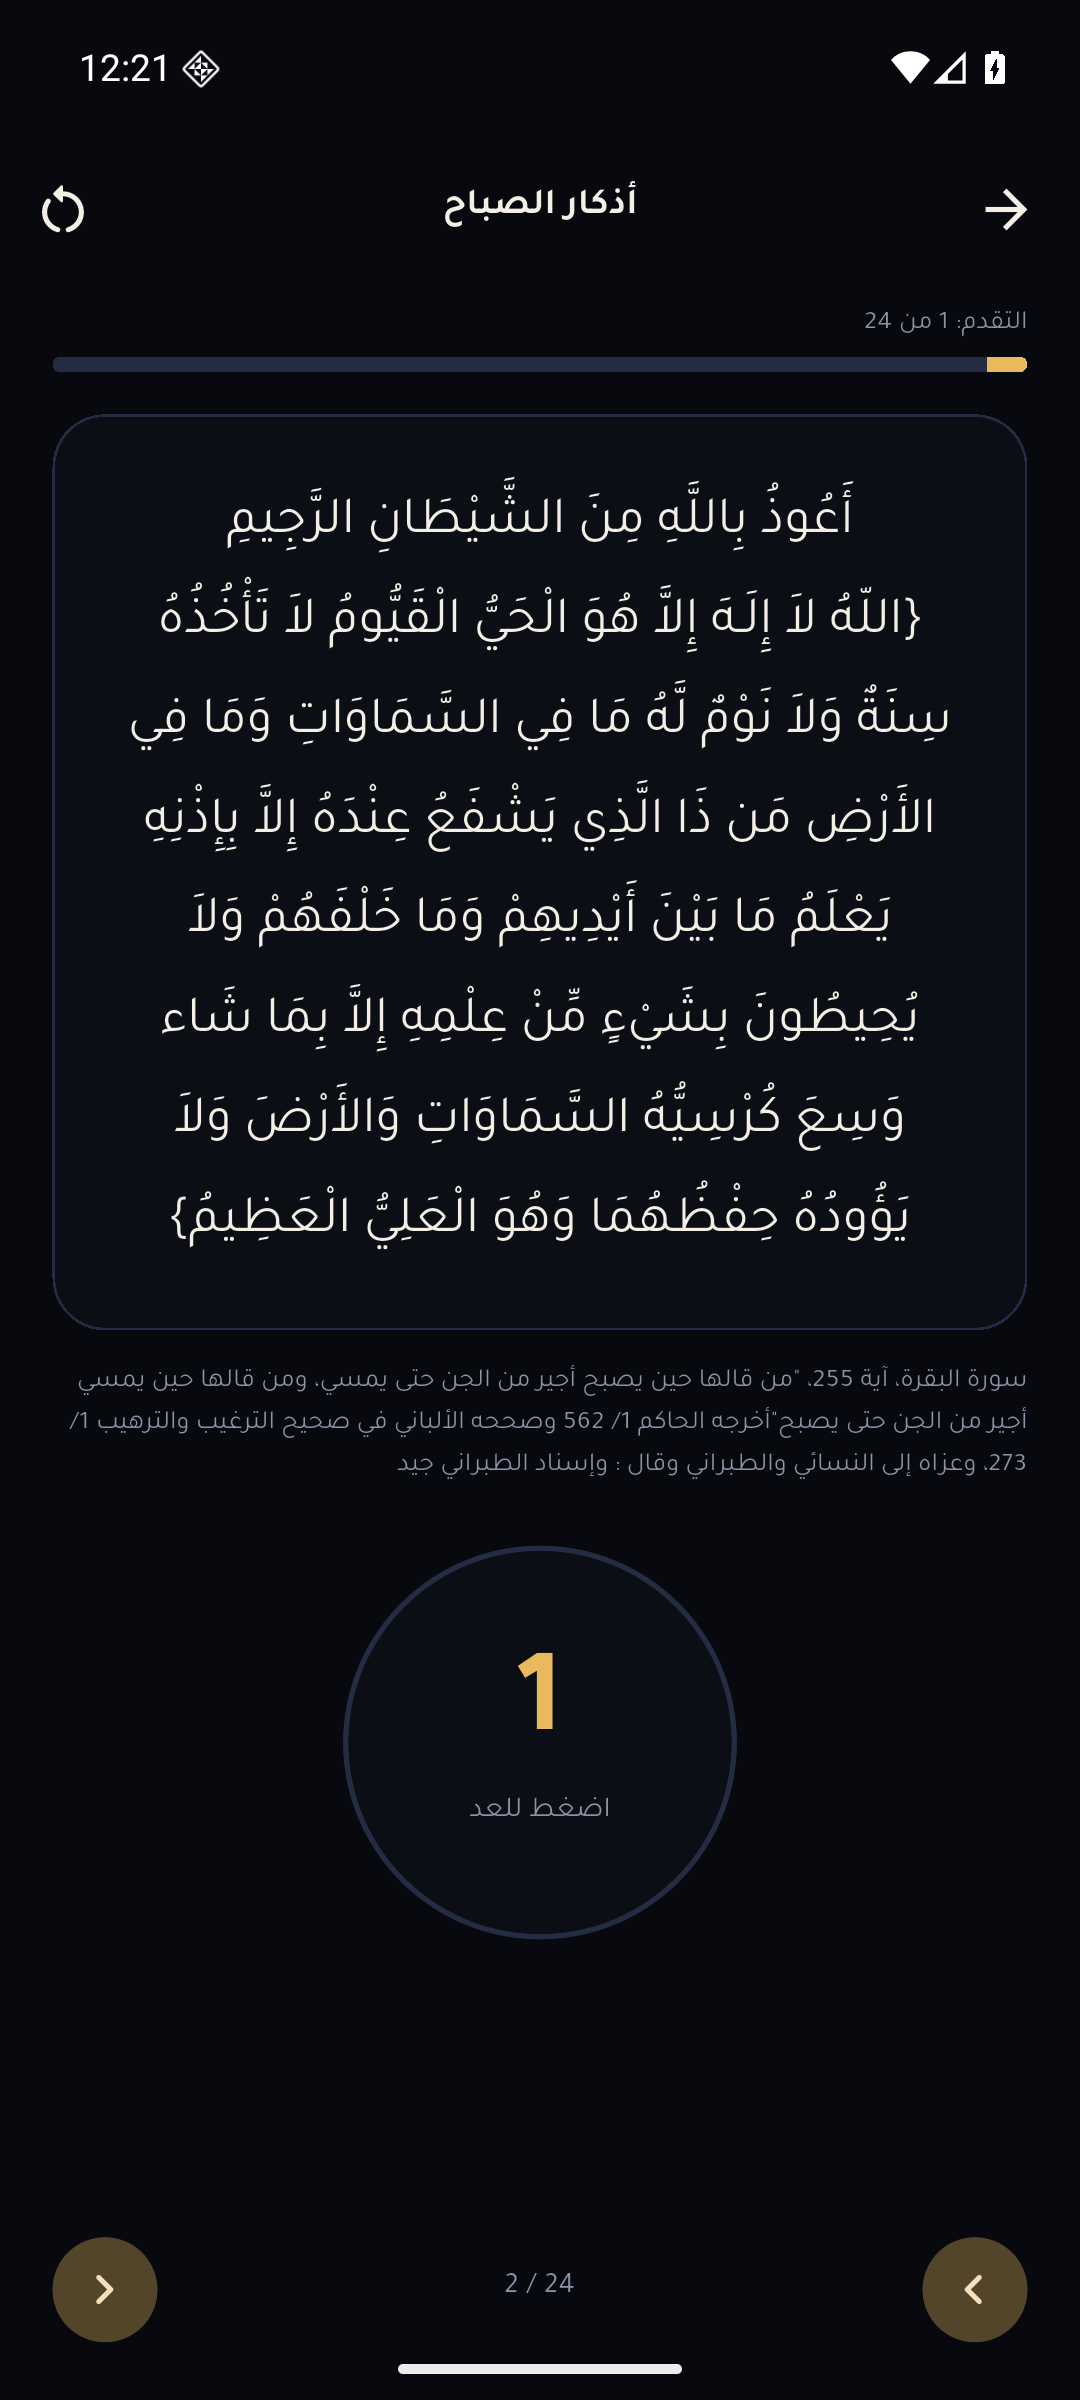
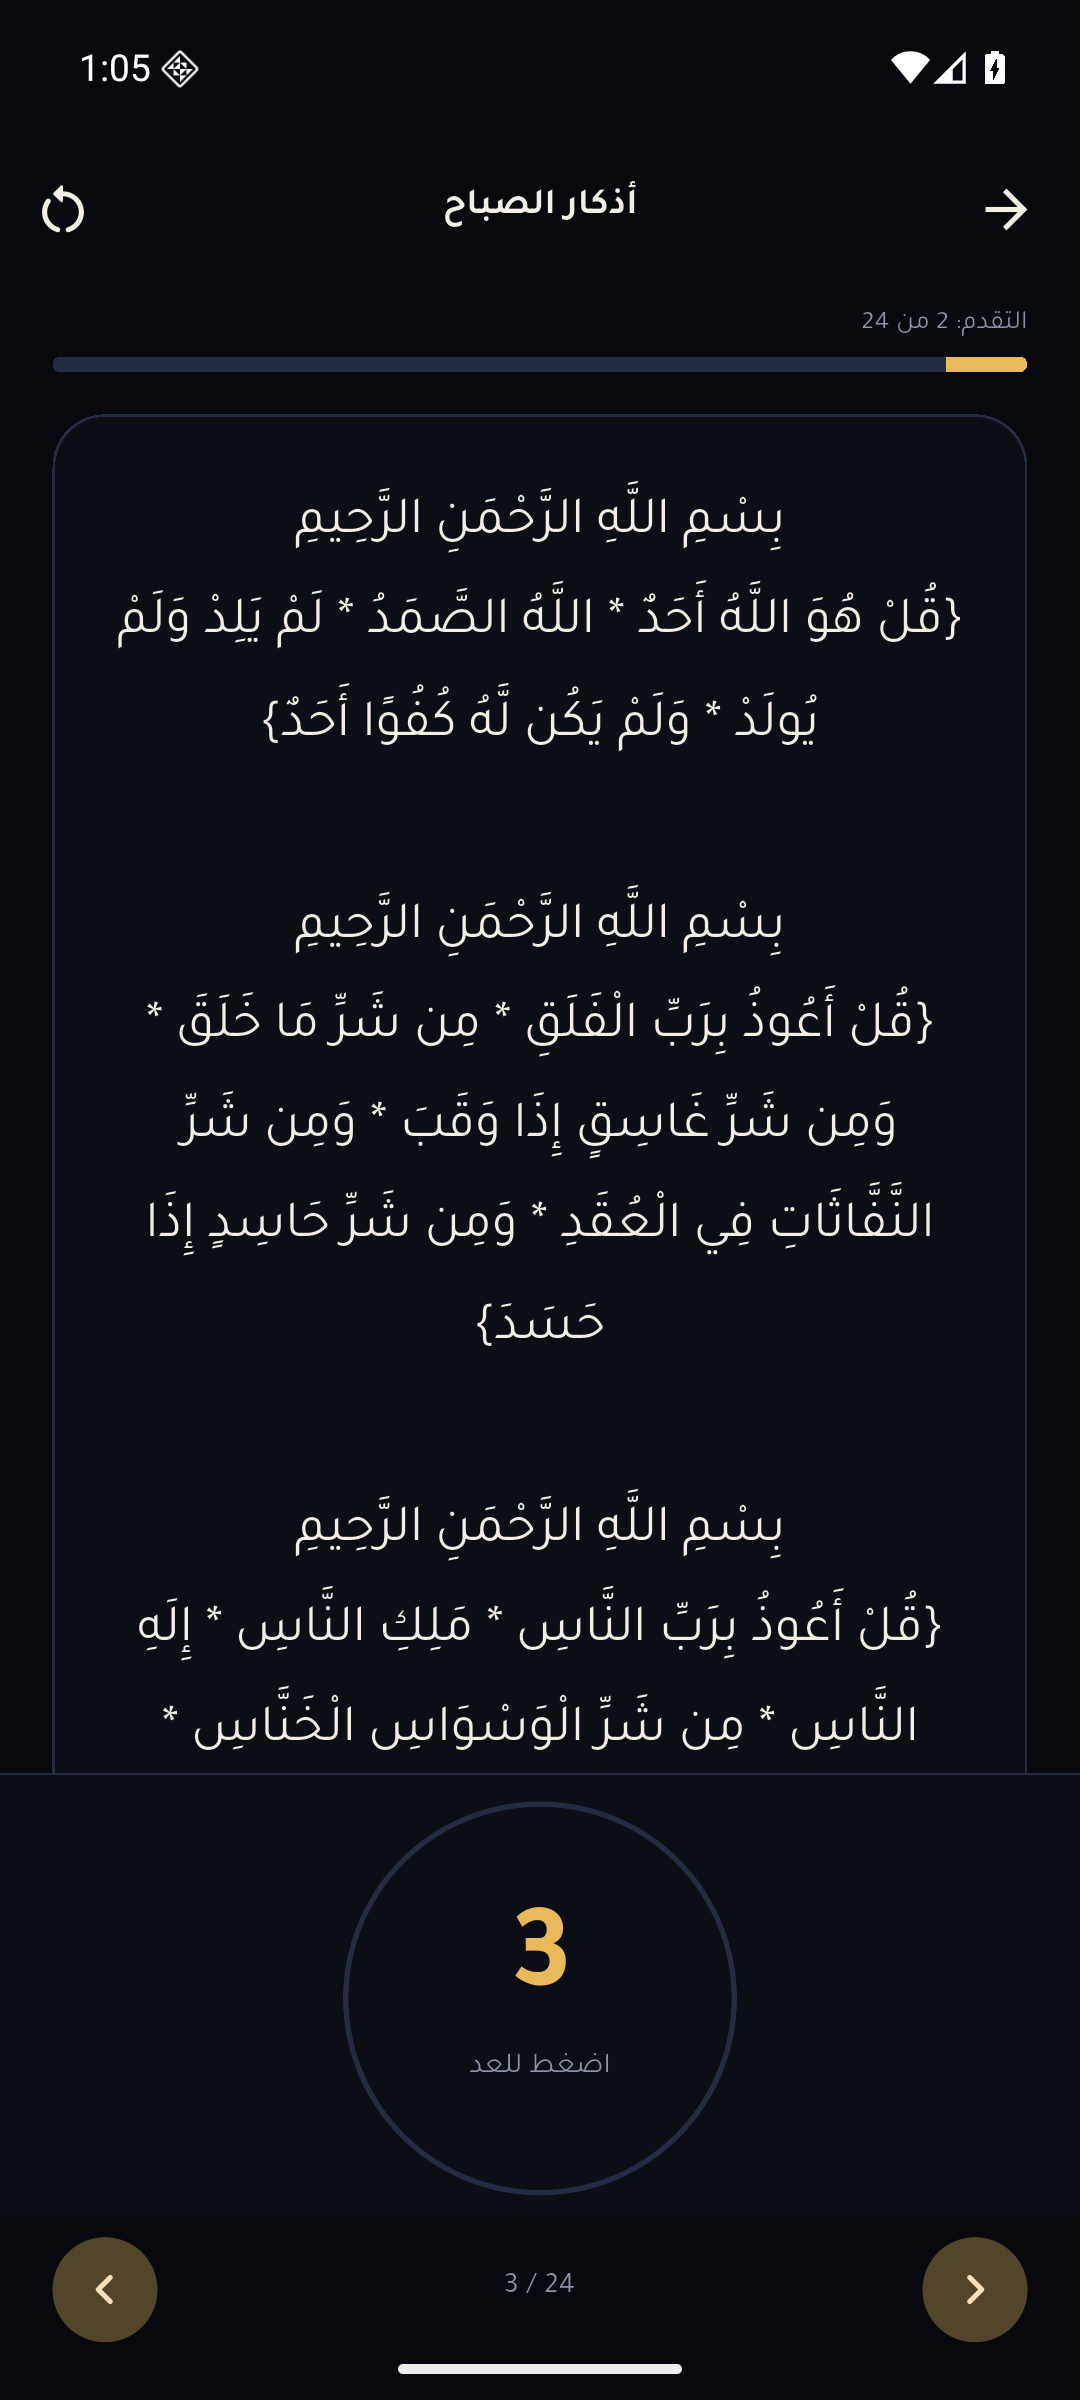
docs(mobile): show the pinned counter and location onboarding

diff --git a/mobile/README.md b/mobile/README.md
@@ -136,6 +136,10 @@ Captured on an Android 16 (API 36) emulator at 1080x2400 in Arabic RTL.
 |---|
 | ![Adhkar counter](../docs/screenshots/mobile/08-adhkar-counter.png) |
 
+| Location onboarding |
+|---|
+| ![Location onboarding](../docs/screenshots/mobile/09-location-onboarding.png) |
+
 ## Localisation
 
 `lib/l10n/app_ar.arb` is the template. Add a key there first, then mirror it in
